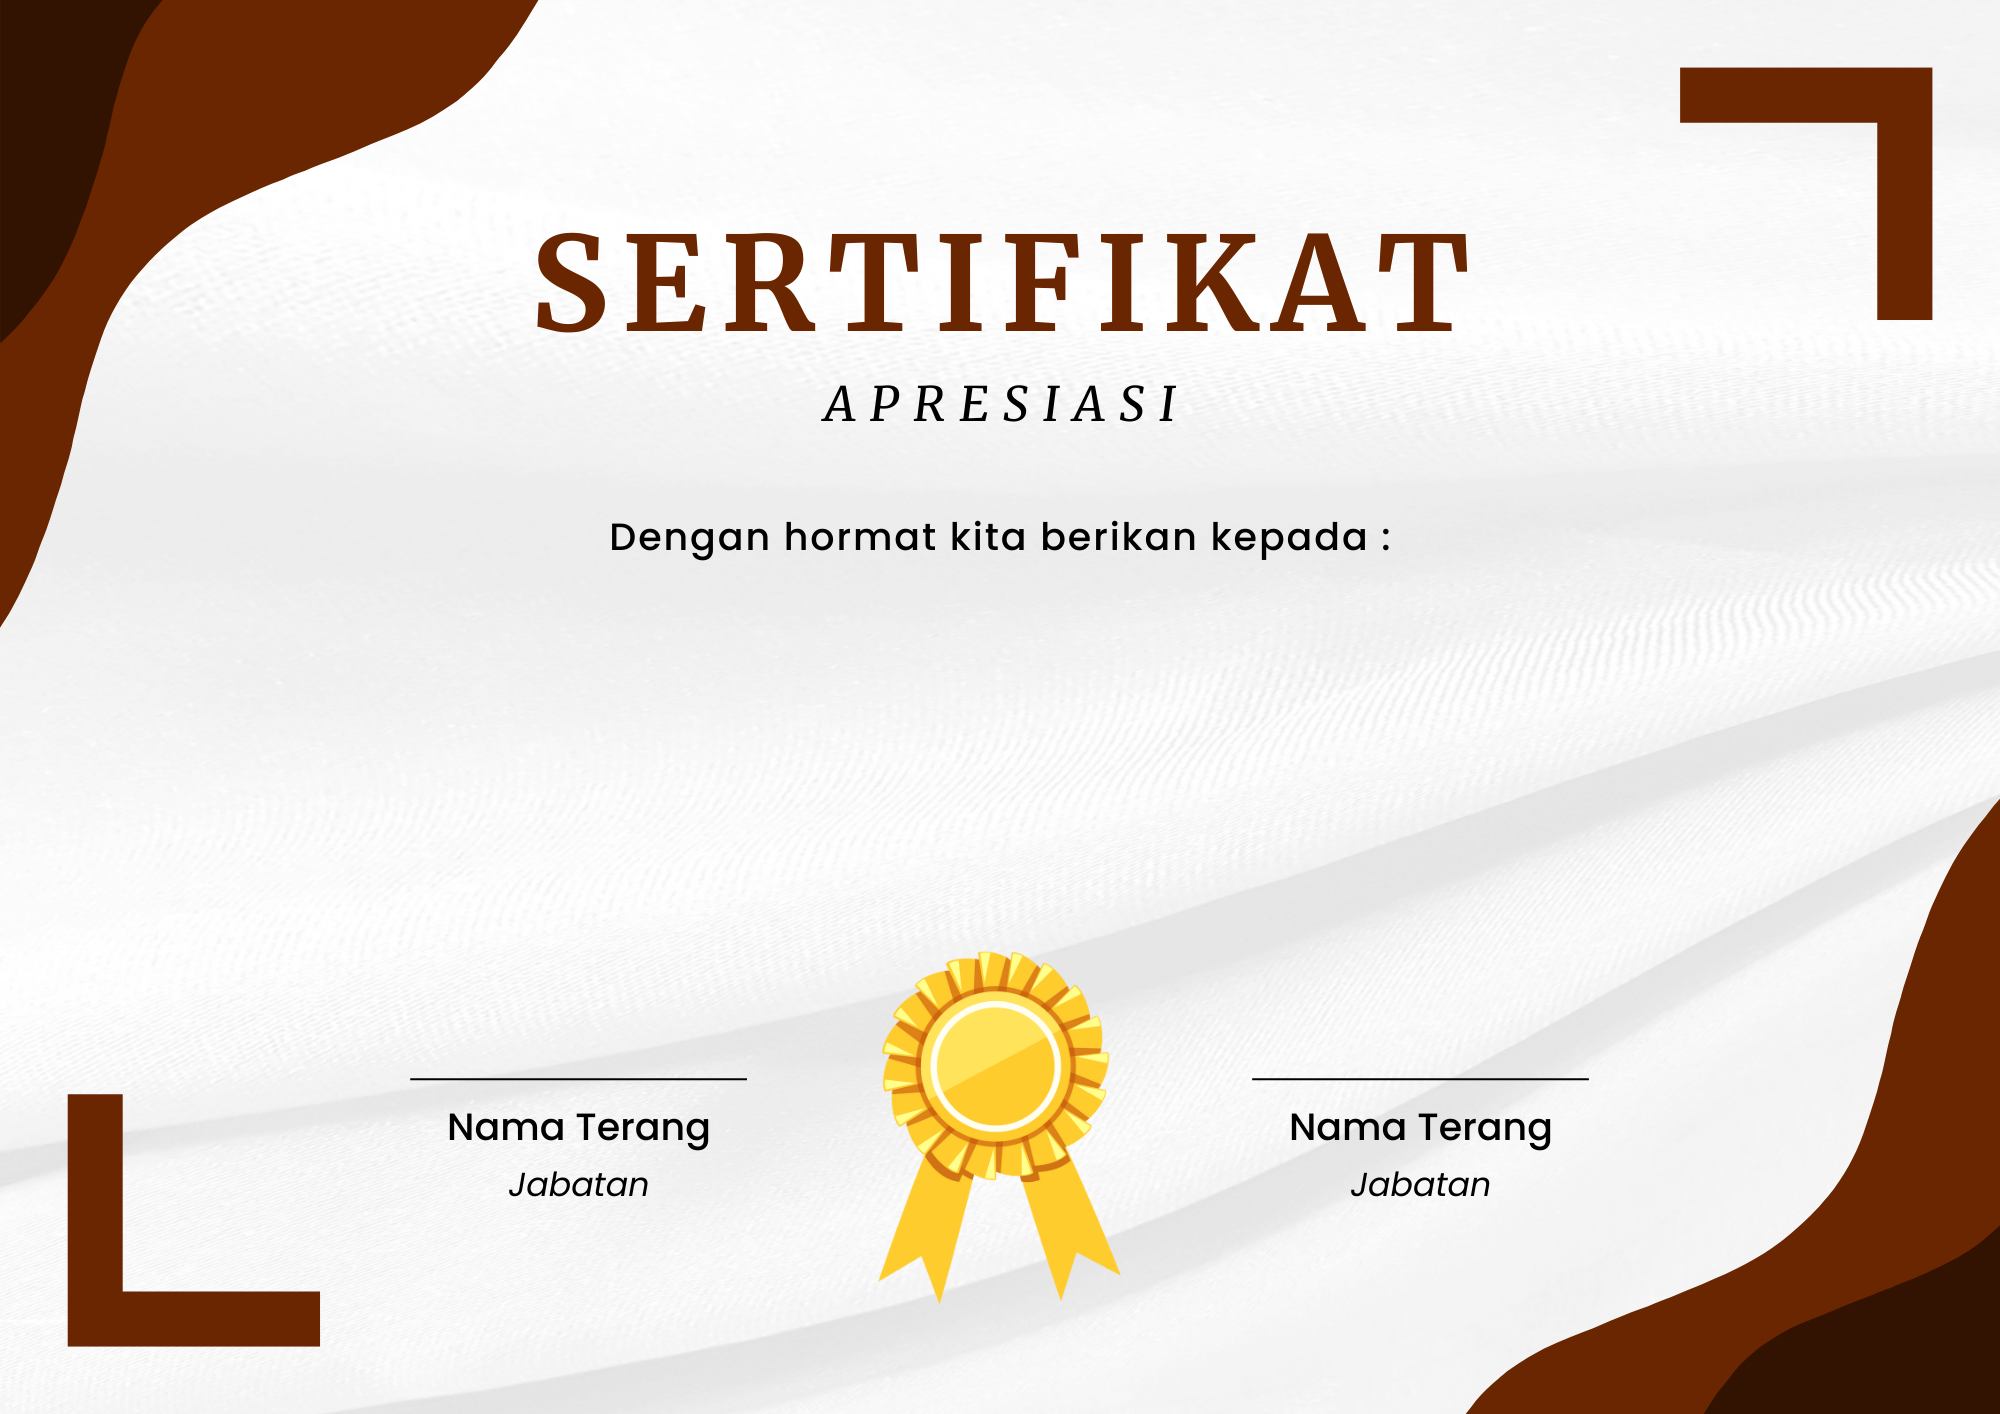
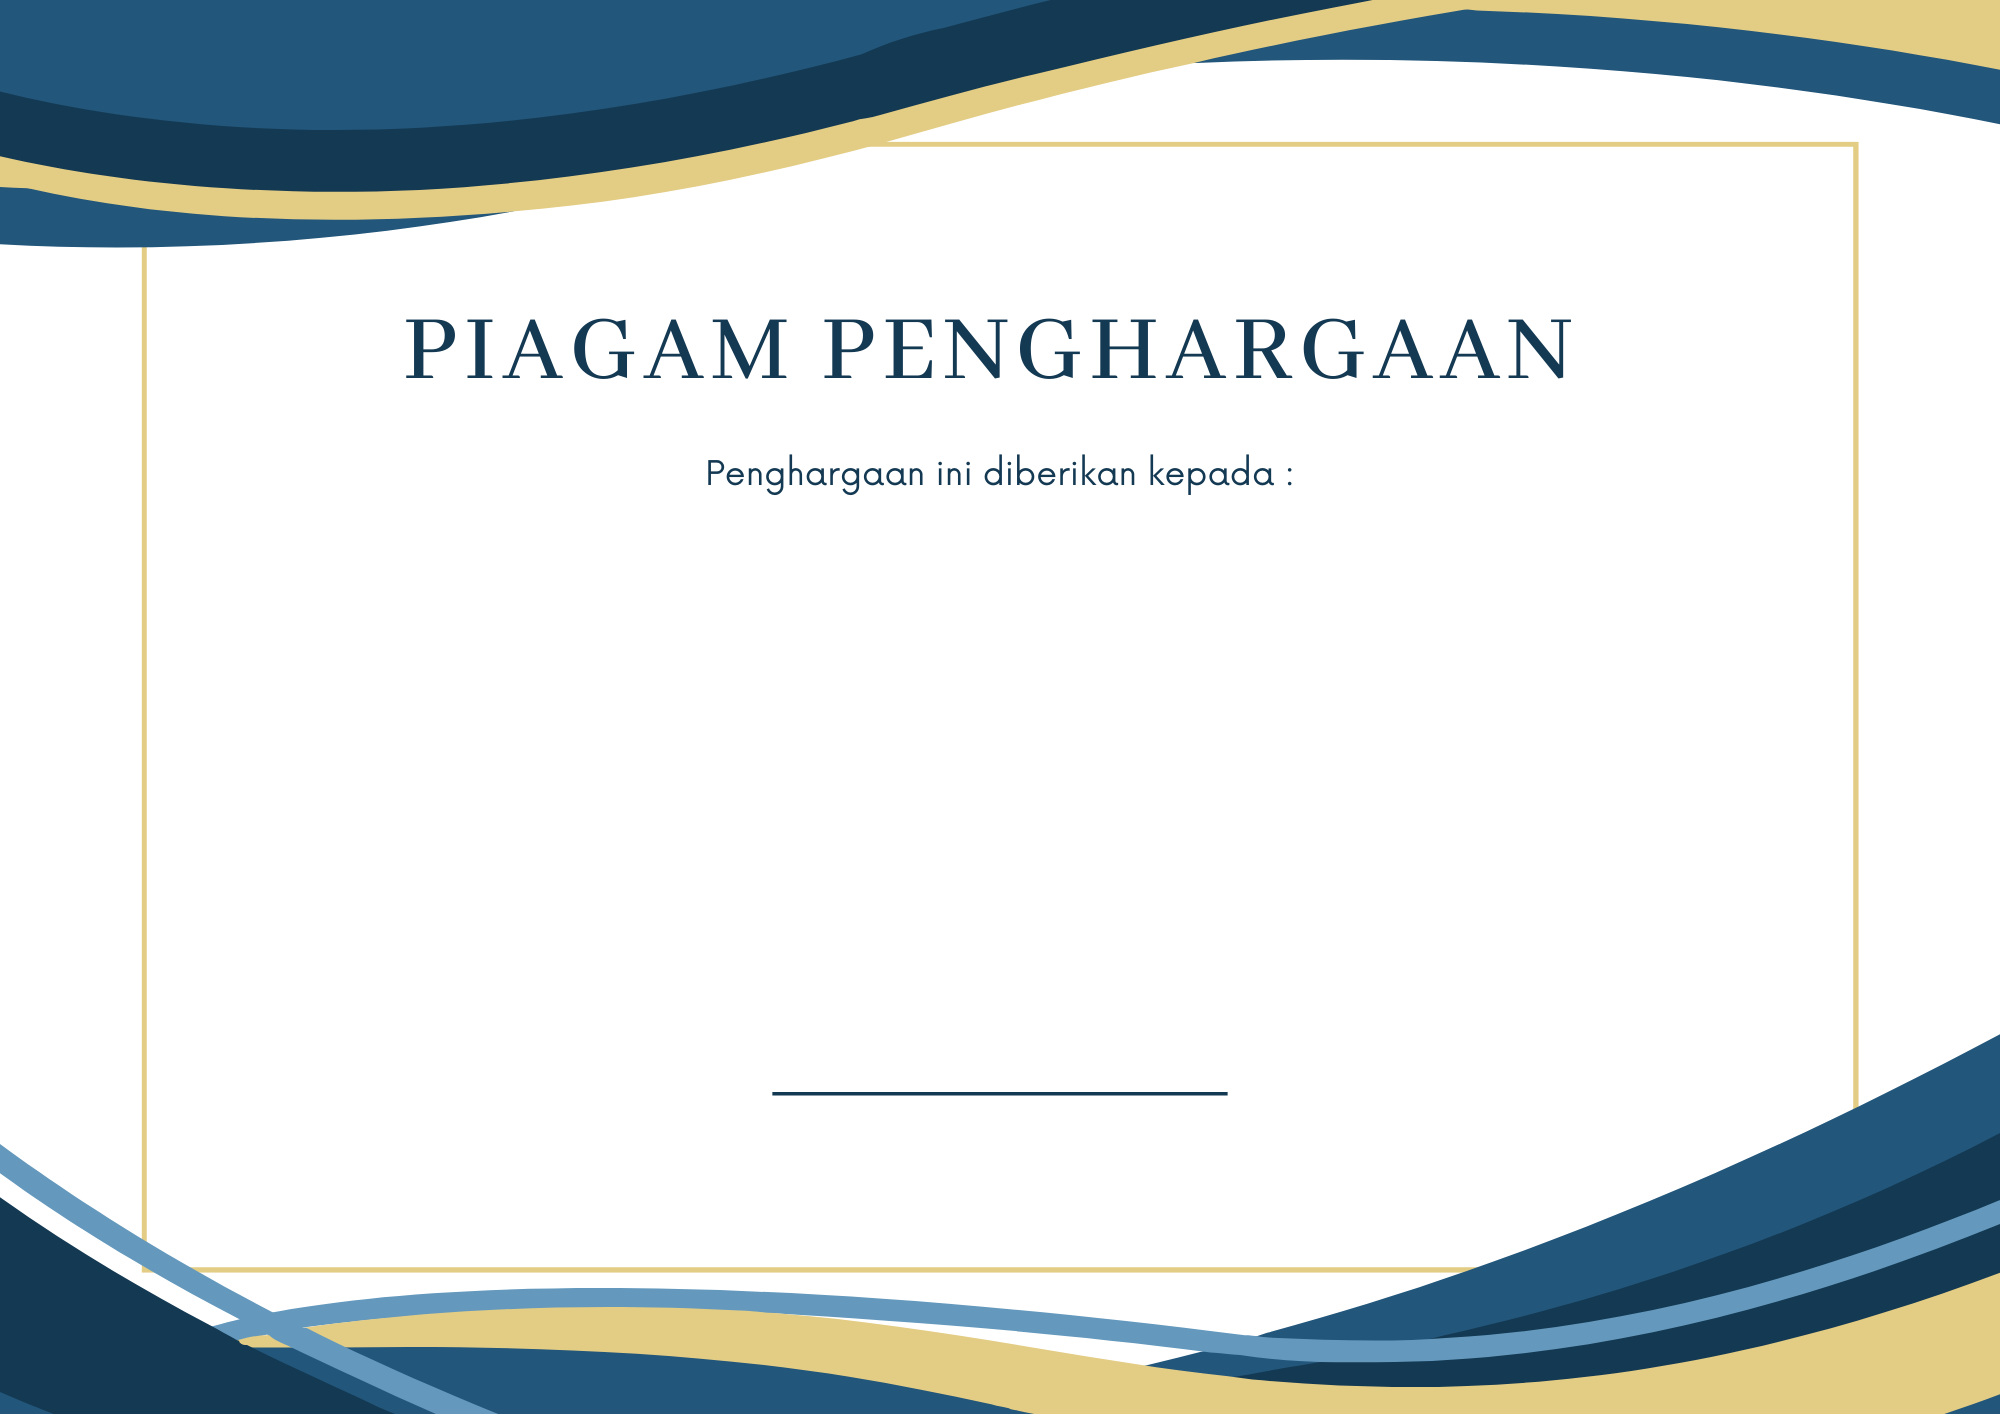
Menambahkan 2 Template Baru

diff --git a/index.html b/index.html
@@ -78,6 +78,7 @@
         margin-top: 20px;
         padding: 10px;
         color: white;
+        cursor: pointer;
     }
     #print{
         float: right;
@@ -135,7 +136,7 @@
                 <h1 id="namaku">Nama Anda</h1>
                 <h3 id="jabatanku">Jabatan Anda</h3>
             </div>
-            <img src="sertif.png" alt="">
+            <img src="sertif.png" alt="Foto Sertifikat" id="sertifImg">
             
         </div>
         <button id="print" onclick="print()">Cetak Sertifikat</button>
@@ -146,6 +147,10 @@
 </body>
 </html>
 <script>
+    const image = ["sertif.png", "sertif2.png", "sertif3.png"]
+    const img = document.getElementById('sertifImg');
+    let i = 1;
+
     function ubahValue(){
         const nama = document.querySelector('#nama').value
         const jabatan = document.querySelector('#jabatan').value
@@ -156,7 +161,10 @@
         jabatannya.textContent = jabatan
     }
     function changeImageSource() {
-        const img = document.getElementById('sertifImg');
-        img.src = 'newImage.png';
+        img.src = image[i];
+        i++
+        if(i == image.length){
+            i = 0
+        }
     }
 </script>
